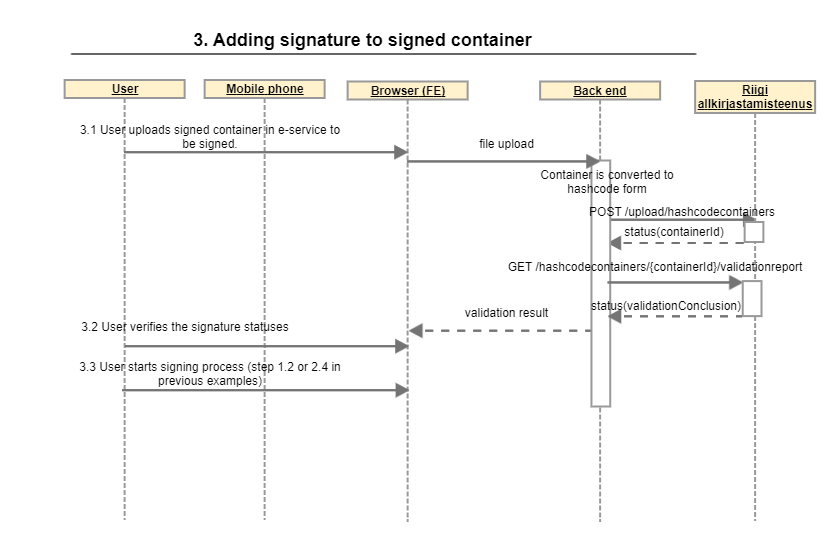
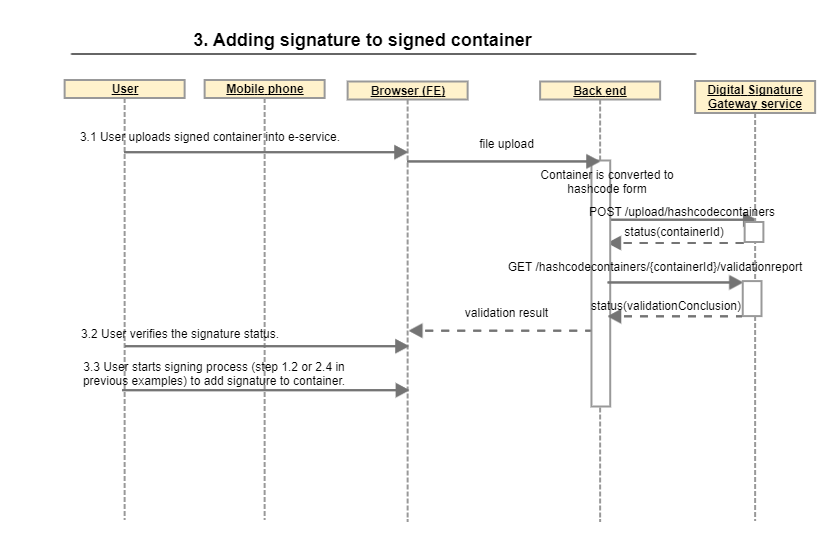
SIGA-212 wording fixes and update of drawings

diff --git a/Technical-description.md b/Technical-description.md
@@ -12,8 +12,8 @@ layout: default
 
 ## Introduction
 
-Below are generalized examples how user signing process in e-service can take place. In the flows of ID-card signing [HWCrypto library](https://github.com/hwcrypto/hwcrypto.js)
-is used in front end for commucating with ID-card. The sequences in this chapter are for demonstration, the actual flow and implementation should be based on integrating e-service
+Below are generalized examples of user signing process in an e-service. ID-card signing flows use [HWCrypto library](https://github.com/hwcrypto/hwcrypto.js) for
+front-end communication with ID-card. The sequences in this chapter are for demonstration, the actual flow and implementation should be based on integrating e-service
 requirements and architecture.
 
 The example code in JAVA with explicit API demonstration can be found [here](https://github.com/open-eid/SiGa/tree/master/siga-sample-application) together with [instructions how to run the Signature Gateway with Docker](https://github.com/open-eid/SiGa#running-siga-with-docker) for learning purposes.
@@ -22,13 +22,13 @@ The example code in JAVA with explicit API demonstration can be found [here](htt
 
 ### 1. Signing files with ID card from user point of view
 
-In this example e-service handles all actions regarding signable data files before opening session with Digital Signature Gateway service (Riigi allkirjastamisteenus).
+In this example e-service handles all actions regarding to-be-signed data files before opening session with Digital Signature Gateway service (Riigi allkirjastamisteenus).
 
-1.1 User selects files in e-service to be signed.
+1.1 User selects files to-be-signed in e-service.
 
 1.2 User inserts ID-Card to reader.
 
-1.3 User presses sign with ID-Card button.
+1.3 User presses "sign with ID-Card" button.
 
 1.4 Select certificate prompt is presented, user selects correct certificate.
 
@@ -40,7 +40,7 @@ In this example e-service handles all actions regarding signable data files befo
 
 ![](../img/ID_card_flow.png)
 
-*(1) To start signature creation, signers certificate is needed in Digital Signature Gateway service. In this example [HWCrypto getCertificate()](https://github.com/hwcrypto/hwcrypto.js/wiki/APIv2#getcertificate) is used to fetch the certificate.
+*(1) Digital Signature Gateway service needs signers certificate for signature creation. In this example [HWCrypto getCertificate()](https://github.com/hwcrypto/hwcrypto.js/wiki/APIv2#getcertificate) is used to fetch the certificate.
 It is important that **signing certificate** (nonrepudiation key-usage must be present) is fetched. Signing process can not be completed with authentication certificate. 
 
 *(2) This step is needed by the [HWCrypto](https://github.com/hwcrypto/hwcrypto.js/wiki/APIv2#sign) as it requires hash value. Other signing libraries may require raw data, in that case dataToSign may only be base64 decoded
@@ -51,15 +51,15 @@ before sending to signing.
 
 ### 2. Signing files with Mobile-ID
 
-2.1 User uploads file in e-service to be signed.
+2.1 User uploads to-be-signed file into e-service.
 
-2.2 User removes file to be signed.
+2.2 User removes to-be-signed file.
 
-2.3 User uploads file in e-service to be signed.
+2.3 User uploads to-be-signed file into e-service.
 
-2.4 User presses sign with Mobile-ID button.
+2.4 User presses "sign with Mobile-ID" button.
 
-2.5 User inserts personal identification code and mobile phone number and presses sign.
+2.5 User enters personal identification code and mobile phone number and presses "sign".
 
 2.6 User checks verification code in e-service.
 
@@ -76,17 +76,17 @@ before sending to signing.
 
 ### 3. Adding signature to already signed container
 
-3.1 User uploads signed container in e-service to be signed.
+3.1 User uploads signed container into e-service.
 
-3.2 User verifies the signature statuses
+3.2 User verifies the signature status.
 
-3.3 User starts signing process (step 1.2 or 2.4 in previous examples)
+3.3 User starts signing process (step 1.2 or 2.4 in previous examples) to add signature to container.
 
 ![](../img/Add_signature_flow.png)
 
 ## Implementations needed in e-service
 
-In orded to integrate with Digital Signature Gateway service following functionality must be implemented in e-service.
+In order to integrate with Digital Signature Gateway service following functionality must be implemented in e-service.
 
 ### Authorization
 
@@ -116,13 +116,14 @@ Please check [here](https://github.com/open-eid/SiGa/wiki/Best-practices) for ad
 
 ## Testing the integration
 
-Successful integration with [Demo environment](https://www.ria.ee/et/riigi-infosusteem/eid/partnerile.html#allkirjastamisteenus) is requirement for using Digital Signature Gateway service in production. For development and learning it is possible to set up the Signature Gateway software in local premises using [Docker.](https://github.com/open-eid/SiGa#running-siga-with-docker)
-However, as Digital Signature Gateway service do not fully offer Signature Gateway functionality and there may be version differences between service and available software it is recommended to always use Demo environment for acceptance testing.
-
+Successful integration with [Demo environment](https://www.ria.ee/et/riigi-infosusteem/eid/partnerile.html#allkirjastamisteenus) is requirement for using Digital Signature Gateway service in production.
+For development and learning purposes it is possible to set up the Signature Gateway software using [Docker](https://github.com/open-eid/SiGa#running-siga-with-docker) on local premises.
+However, Digital Signature Gateway service does not offer Signature Gateway full functionality. There may also be version differences between service and available software. 
+For acceptance testing it is recommended to always use Demo environment.
 
 ### Special considerations for testing
 
-* Authorization - be sure to check that correct [URL encododing rules](https://github.com/open-eid/SiGa/wiki/Authorization#url-encoding-rules) and charset encoding is used. Verify that different [HMAC algorithms](https://github.com/open-eid/SiGa/wiki/Authorization#headers) are supported.
+* Authorization - be sure to check that correct [URL encoding rules](https://github.com/open-eid/SiGa/wiki/Authorization#url-encoding-rules) and charset encoding is used. Verify that different [HMAC algorithms](https://github.com/open-eid/SiGa/wiki/Authorization#headers) are supported.
 * Hashcode container form - Make sure that all data files are removed from hashcode container before sending to service. Ensure that the final container is converted correctly to normal form by using DigiDoc4 client as reference (can not be used with test certificates for signature validation but it should not give any container errors).
 * Mobile-ID signing - Ensure that challengeID/verification code is correctly shown to customer. Test the negative cases ([Mobile-ID testnumbers can be found here](https://github.com/SK-EID/MID/wiki/Test-number-for-automated-testing-in-DEMO)) and ensure that user is given correct feedback. Also test timeouts as signing with Mobile-ID can take time. Ensure that user can not activate signing several times (by clicking the sign button repeatedly) on one signing process.
 * Signing with ID card - Test insertion of card in different steps of the signing flow (before clicking sign, after clicking sign...). Ensure that user can not activate signing several times (by clicking the sign button repeatedly) on one signing process.

diff --git a/Business-description.md b/Business-description.md
@@ -6,7 +6,8 @@ layout: default
 ## What is it?
 
 Digital Signature Gateway service (Riigi allkirjastamisteenus) is a service for creating and signing ASIC-E and BDOC containers in a HASHCODE form. 
-The service supports signing with Estonian ID-Card/e-token and with Estonian Mobile-ID. 
+
+The service supports signature creation with Estonian ID-card/e-token (signing with ID-card/e-token must be still implemented in e-service) and with Estonian Mobile-ID. 
 
 The service also supports validation of ASIC-E, BDOC and DDOC containers in hashcode form. 
 
@@ -14,8 +15,12 @@ If your e-service is currently using DigiDocService for container creation, take
 
 ## What are the benefits?
 
-Integration with Digital Signature Gateway service enables to have container and signature creation from single service with single contract. It do not require extra contract and integration for Mobile-ID or trust services
-like Time Stamps and OCSP-s.
+Digital Signature Gateway service offers unified API for container and signature creation. No need for extra integration with Mobile-ID or trust services. 
+API is platform independent and can be used in any e-service capable of handling JSON/REST API.
+
+Only one contract is needed to get access container and signature creation. No need for handling contracts and billing with different parties. 
+
+Digital Signature Gateway service is kept up to date with security patches and compliant with signature standards. E-service maintenance is limited to the updates for API integration. 
 
 ## Whom is it for?
 

diff --git a/index.md b/index.md
@@ -12,17 +12,17 @@ Only one contract needed for all required functionality, no additional contracts
 
 Offered functionality:
 * Creating ASICE/BDOC containers in HASHCODE form
-* Signing with Estonian id-card/e-seal
+* Signature creation with Estonian id-card/e-token
 * Signing with Estonian Mobile-ID
 * Validating signed ASICE/BDOC/DDOC containers in HASHCODE form
 
 Digital Signature Gateway service uses HASHCODE container form. This gives the following advantages:
-* Confidenciality of signed data - the data files content is not sent to Digital Signature Gateway service. 
+* Confidentiality of signed data - the content of data files is not sent to Digital Signature Gateway service. 
 * Signed data file size is not relevant - large data files can be signed.
 
 Digital Signature Gateway service advantages over implementing signing service locally:
 * Platform independent API
 * No need for extra contracts for Time Stamping, OCSP and Mobile-ID.
-* Lower need of maintainence, API stays stable compared to the need of upgrades in signing libraries.
+* Lower need of maintenance, API stays stable compared to the need of upgrades in signing libraries.
 
 ![](https://raw.githubusercontent.com/open-eid/SiGa/develop/docs/img/EL_Regionaalarengu_Fond_horisontaalne-vaike.jpg)
